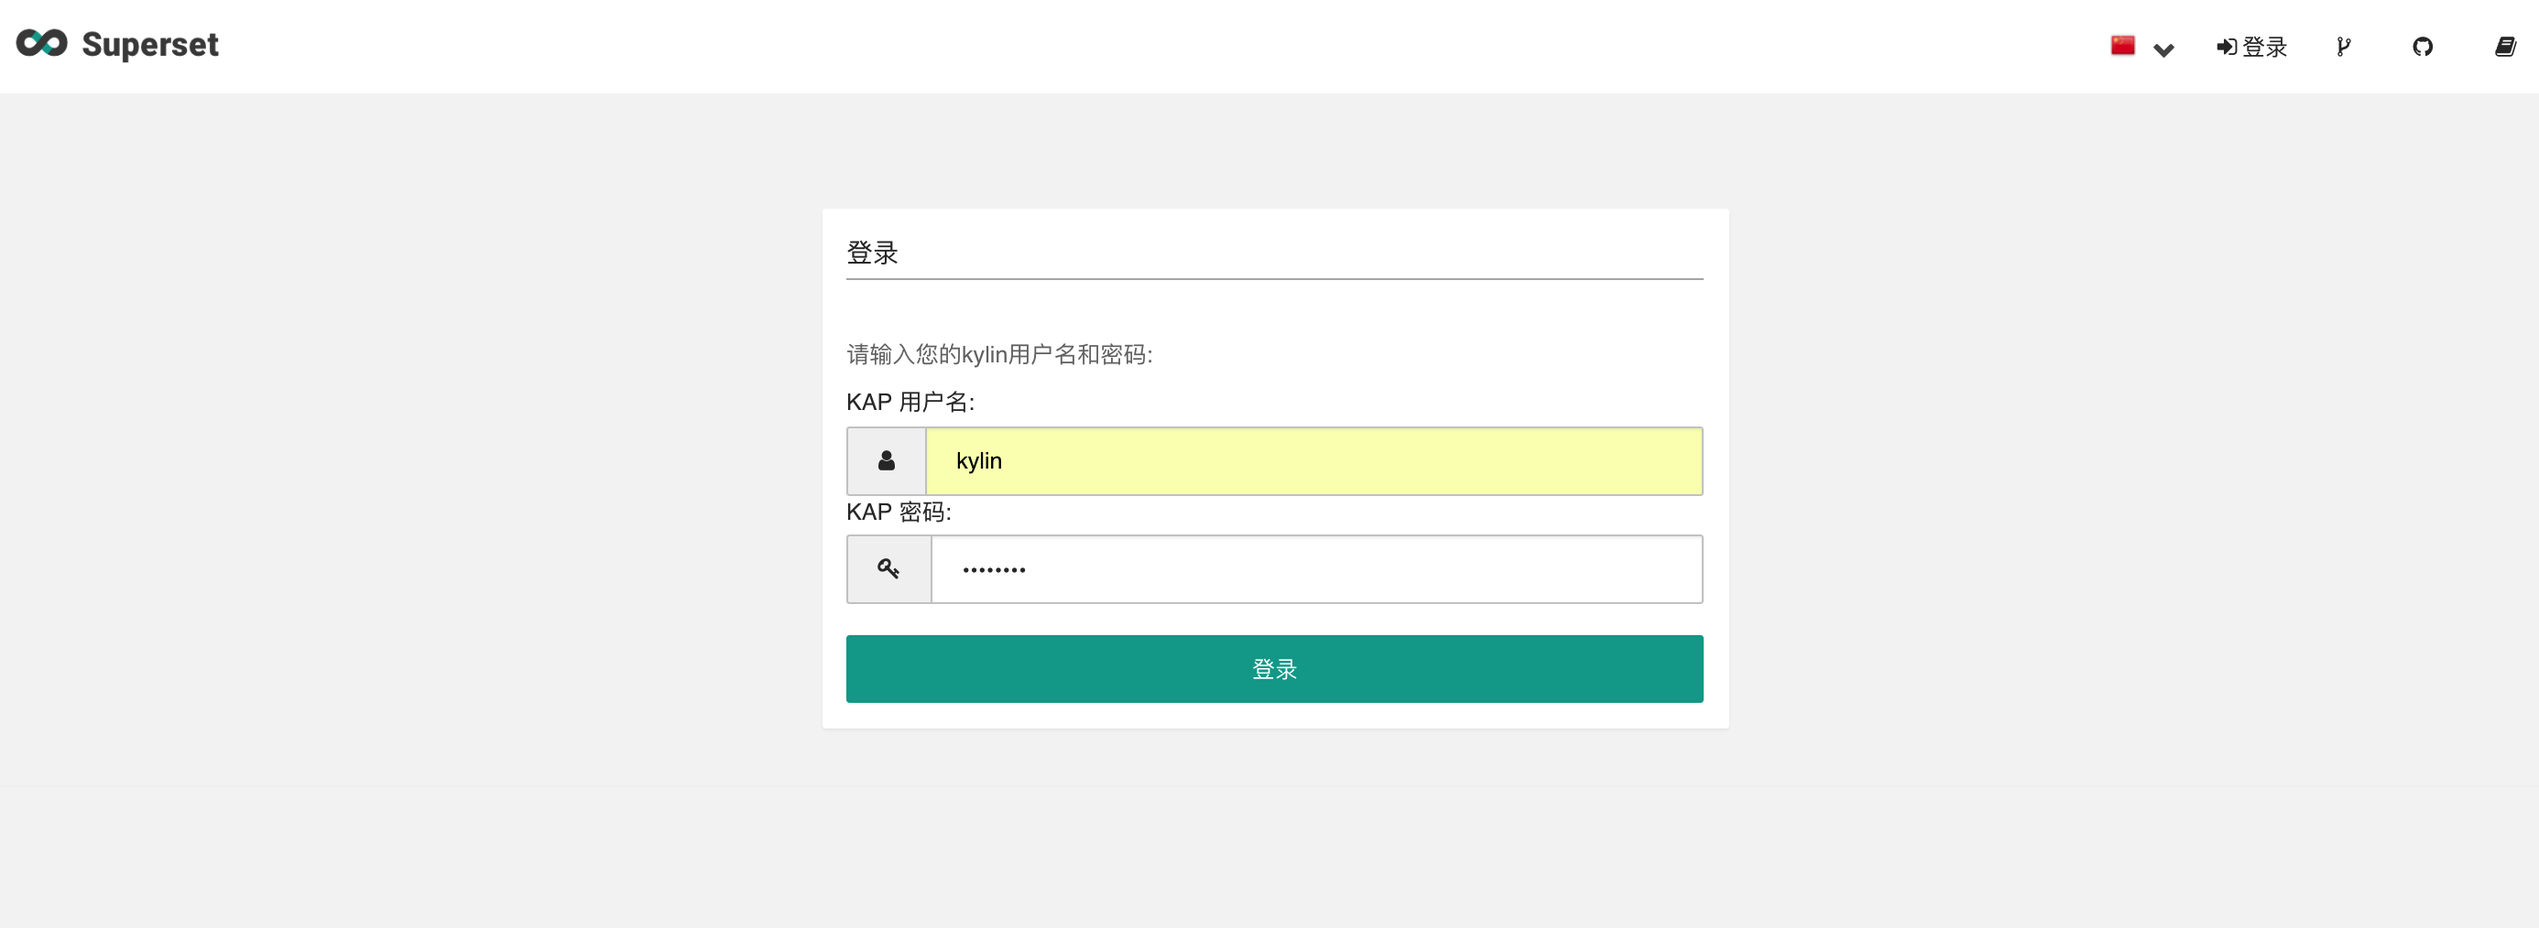
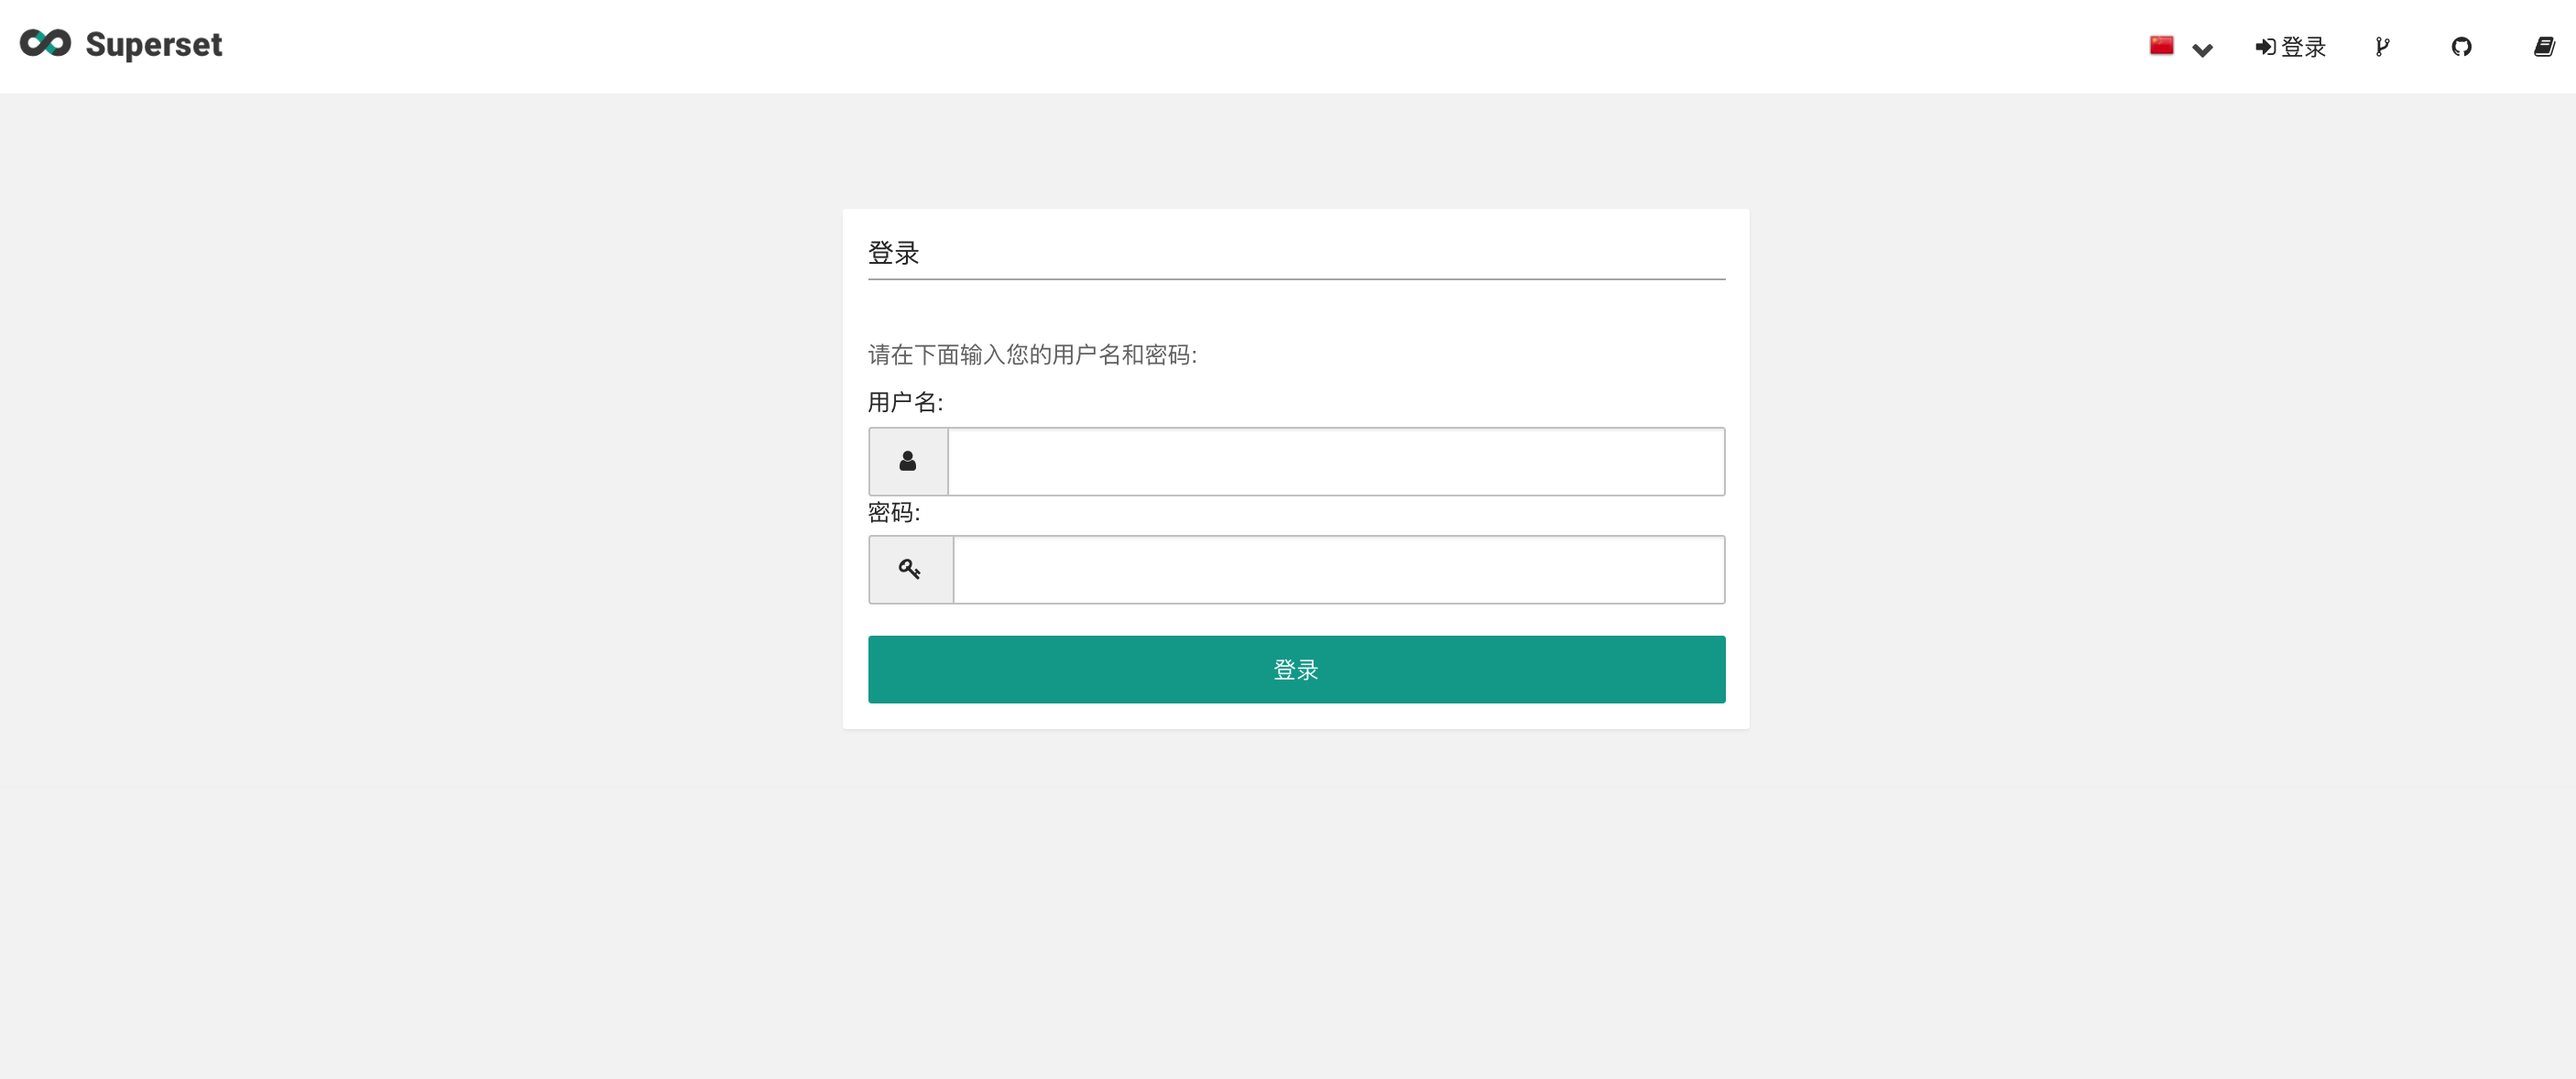
modify docs of login and add database

diff --git a/Documents/introduction_en.rst b/Documents/introduction_en.rst
@@ -41,11 +41,9 @@ its users:
 
 | 2. Eye-catching dashboards and D3-based extendable visualizations.
 
-| 3. Fully-fledged reporting features: filtering, sorting, page-by and
-etc.
+| 3. Fully-fledged reporting features: filtering, sorting, page-by and etc.
 
-| 4. Enterprise-ready features: sharing, exporting, portal integration and
-reports permission.
+| 4. Enterprise-ready features: sharing, exporting, portal integration and reports permission.
 
 | 5. Customizable reporting dimension and measures.
 
@@ -68,19 +66,15 @@ for Superset provides following features that differentiate between
 itself and Superset.
 
 
-| Sync Kyligence or Kylin Cube with one click. With one click in
-Kyligence Insight for Superset, users can sync Kyligence or Kylin Cube
-immediately and start analyzing Cube instantly.
+| Sync Kyligence or Kylin Cube with one click. With one click in Kyligence Insight for Superset, users can sync Kyligence or Kylin Cube immediately and start analyzing Cube instantly.
 
-| Support querying on multiple table data model on Kyligence or Kylin
-Cube. The User can analyze Cube with either star schema data model or
-snowflake schema data model.
+| Support querying on multiple table data model on Kyligence or Kylin Cube. The User can analyze Cube with either star schema data model or snowflake schema data model.
 
-| Deploy Superset with Docker. Users may easily deploy, maintain and
-upgrade Kyligence Insight for Superset with Docker.
+| Support deploy Superset with Docker. Users may easily deploy, maintain and upgrade Kyligence Insight for Superset with Docker.
 
-| Fine-tuned query syntax for Kyligence or Kylin query engine. Query
-pattern is fine-tuned to work best on Kyligence or Kylin data engine.
+| Support offline deployment without installing any environment dependencies.
+
+| Fine-tuned query syntax for Kyligence or Kylin query engine. Query pattern is fine-tuned to work best on Kyligence or Kylin data engine.
 
 
 .. |image0| image:: ./images/Introduction_en/01.png

diff --git a/Documents/introduction_cn.rst b/Documents/introduction_cn.rst
@@ -37,26 +37,24 @@ Superset 具有如下特点：
 Kyligence Insight for Superset
 ^^^^^^^
 
-| 为了服务Kyligence /Kylin
-  的用户，Kyligence开发了定制版的Superset：Kyligence Insight for
-  Superset （以下简称
-  Superset），它的出现丰富了Kylin生态圈，使得Kyligence/
-  Kylin的用户多了一种选择。
+| 为了服务Kyligence /Kylin的用户，Kyligence开发了定制版的Superset：Kyligence Insight for Superset （以下简称Superset），它的出现丰富了Kylin生态圈，使得Kyligence/Kylin的用户多了一种选择。
+
 
 |image3|
 
-"Superset" 与Kyligence /Kylin实现无缝对接，直接通过Kyligence
-/Kylin账号登录，一键同步cube并在
-"Superset"上进行数据探索及可视化，省去反复建模的重复工作，尽享极速，高效的大数据分析体验。
+"Superset" 与Kyligence/Kylin实现无缝对接，直接通过Kyligence/Kylin账号登录，一键同步cube并在"Superset"上进行数据探索及可视化，省去反复建模的重复工作，尽享极速，高效的大数据分析体验。
 
 相比原生Superset, Kyligence的"Superset" 提供了如下增强功能：
 
 
-| 一键同步Kyligence/Kylin
-  Cube，无需在Superset端重新定义数据模型，直接查询Cube
+| 一键同步Cube，无需在Superset端重新定义数据模型，直接查询Cube
+
 | 支持多表连接模型，支持inner join和outer join
+
 | 支持Docker容器化部署，一键启动，降低部署和升级门槛
+
 | 支持离线部署，无需安装任何环境依赖
+
 | 自动适配Kyligence/Kylin 查询语法
 
 .. |image0| image:: ./images/Introduction_cn/01.png

diff --git a/Documents/user_manual_en/superset_en.rst b/Documents/user_manual_en/superset_en.rst
@@ -10,11 +10,16 @@ for Superset step by step.
 log in
 ------
 
-Open the sueprset interface and enter the username and password in
-Kyligence to log in. |image0|
+Open the sueprset interface and enter the default username and password admin/admin to log in. |image0|
 
 Import/Refresh cube
 -------------------
+
+Firstly,need to add a connection string for the Kyligence project at the **Data Sources - Database** |image33|
+
+其中，数据库URL的格式为 **kylin://username:password@host:port/project** ，如果您需要在SQL实验中使用该项目中的表，则需要勾选 在SQL实验室中显示|image34|
+
+The format of the database URL is **kylin://username:password@host:port/project**. If you need to use the table in the project in the SQL Lab, you need to check ’Expose in SQL Lab‘| Image34|
 
 Click **Sources-Kylin Refresh** in the Superset interface to
 import/refresh all cubes. |image1|
@@ -153,6 +158,8 @@ As a result , ANALYST users do not have permission to download CSV
 .. |image30| image:: ../images/user_manual_en/30.png
 .. |image31| image:: ../images/user_manual_en/31.png
 .. |image32| image:: ../images/user_manual_en/32.png
+.. |image33| image:: ../images/user_manual_en/33.png
+.. |image34| image:: ../images/user_manual_en/34.png
 
 
 
